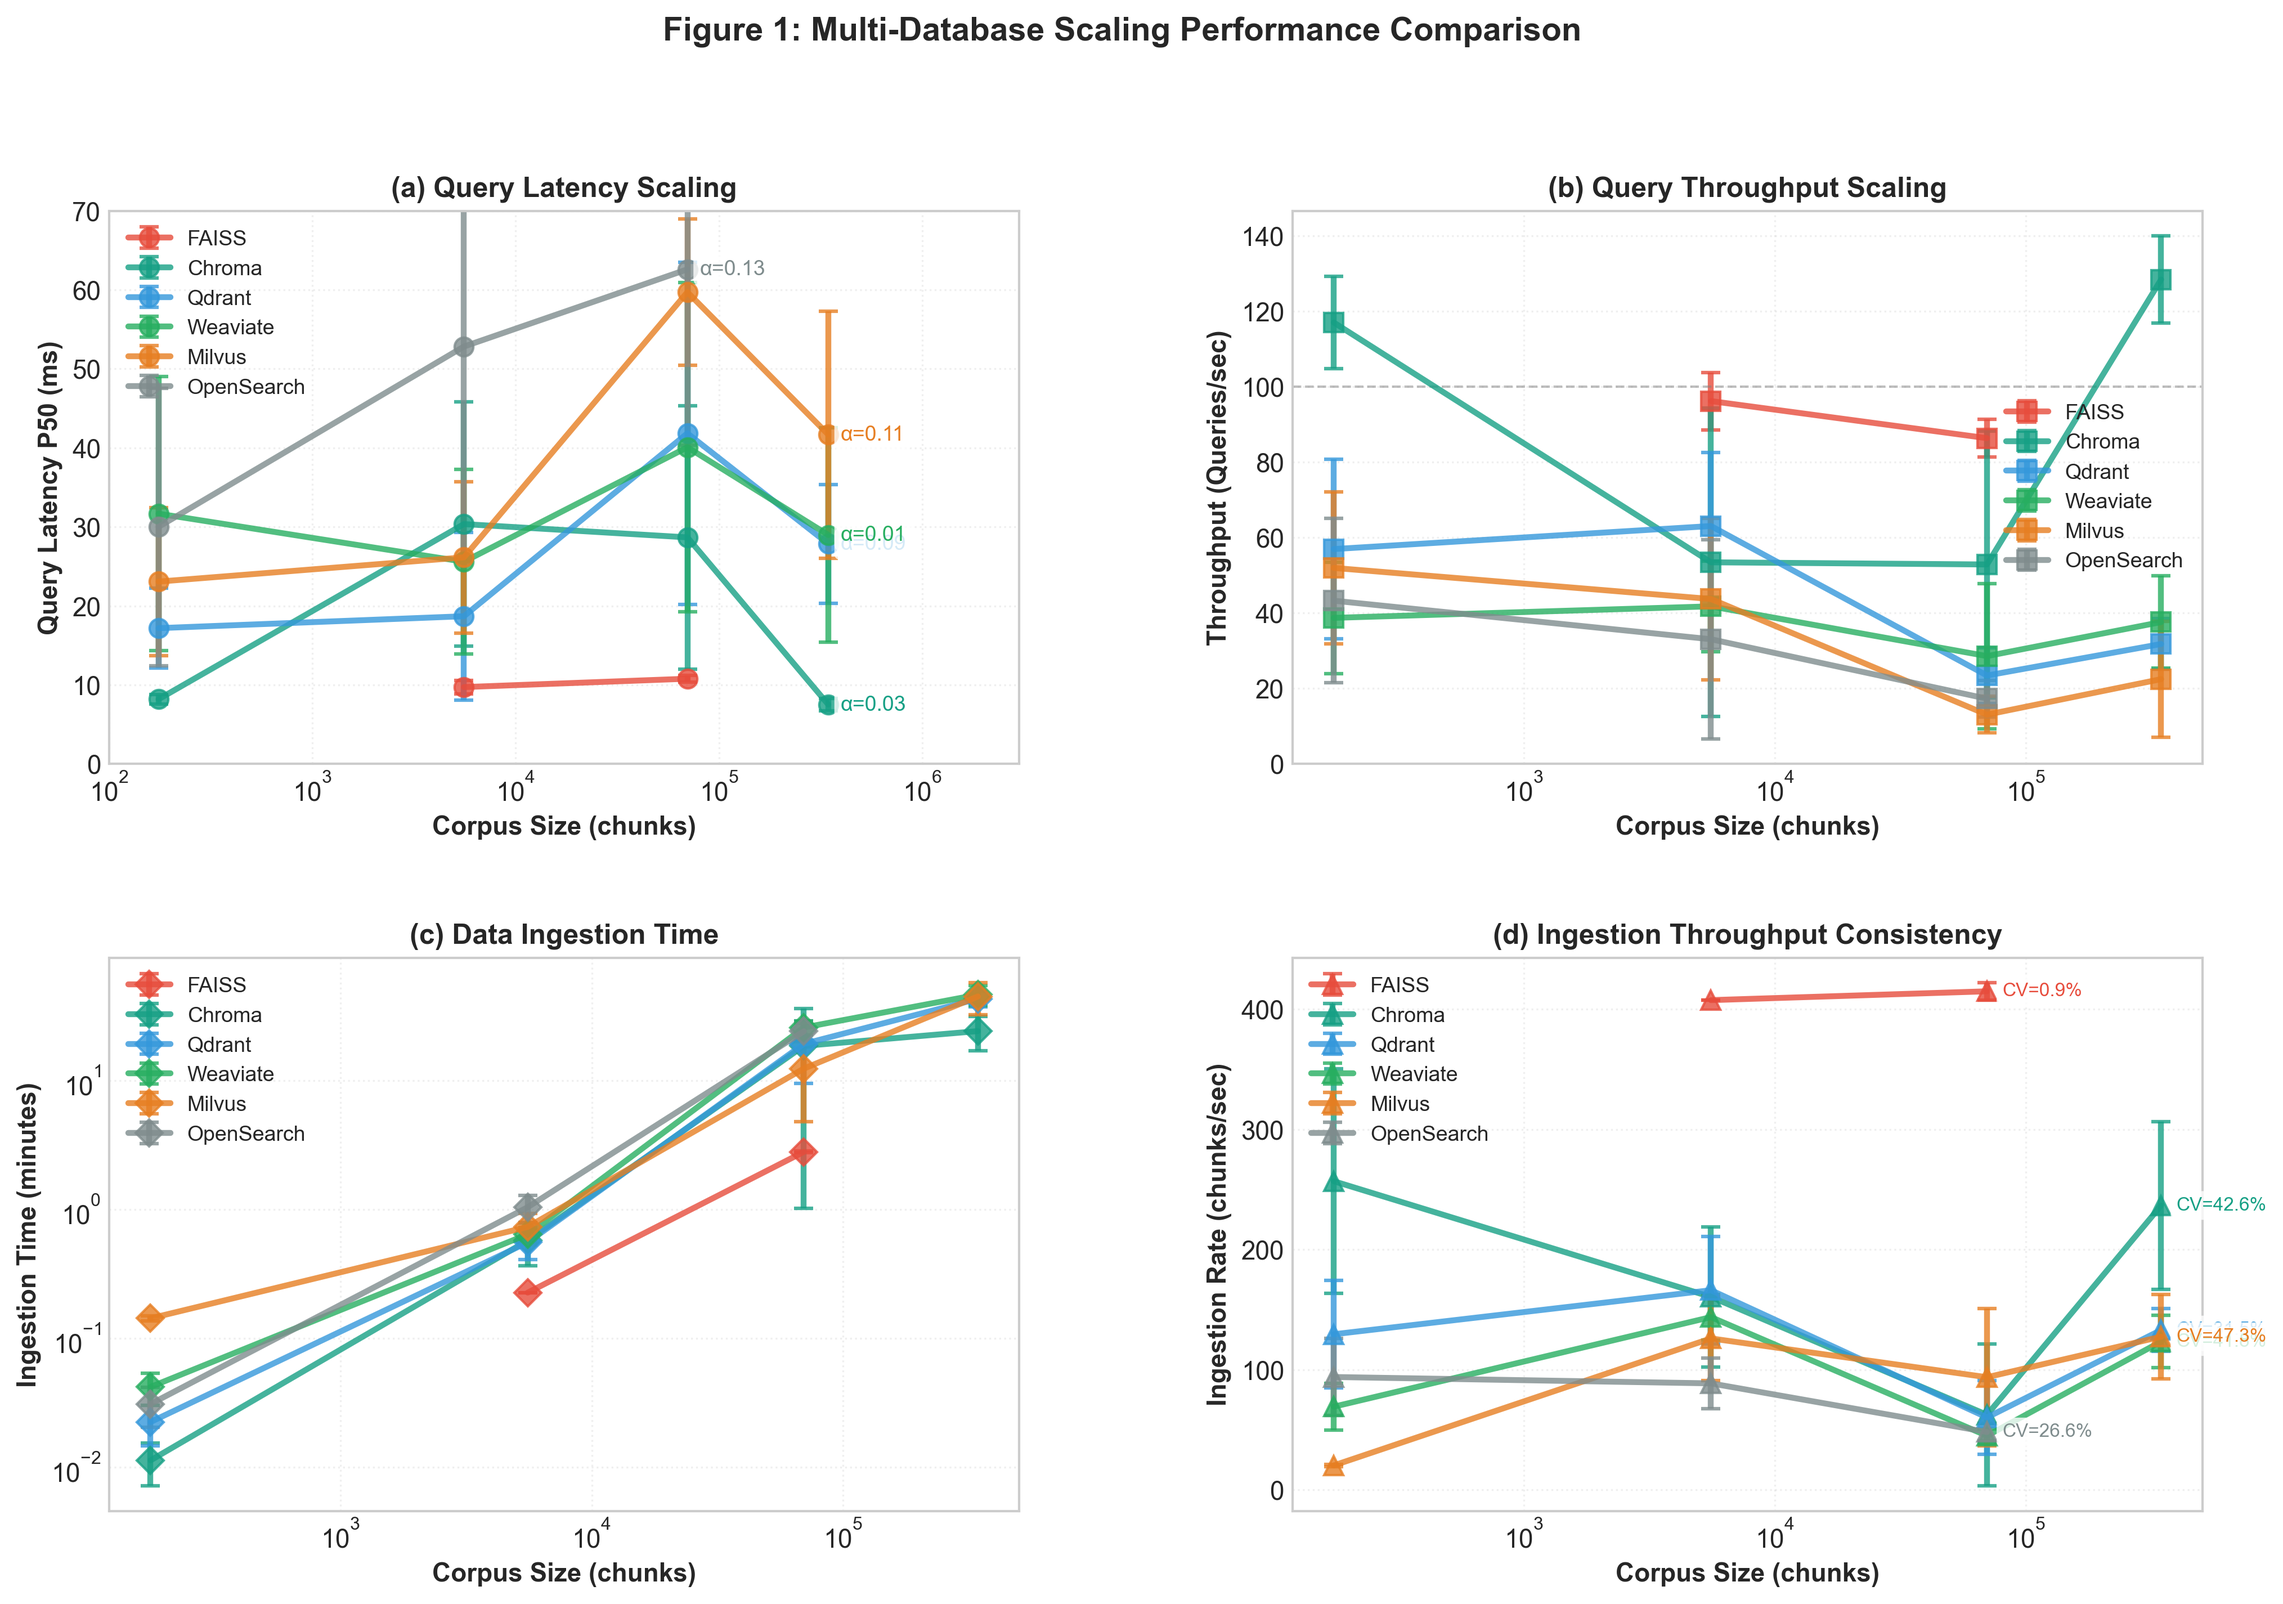
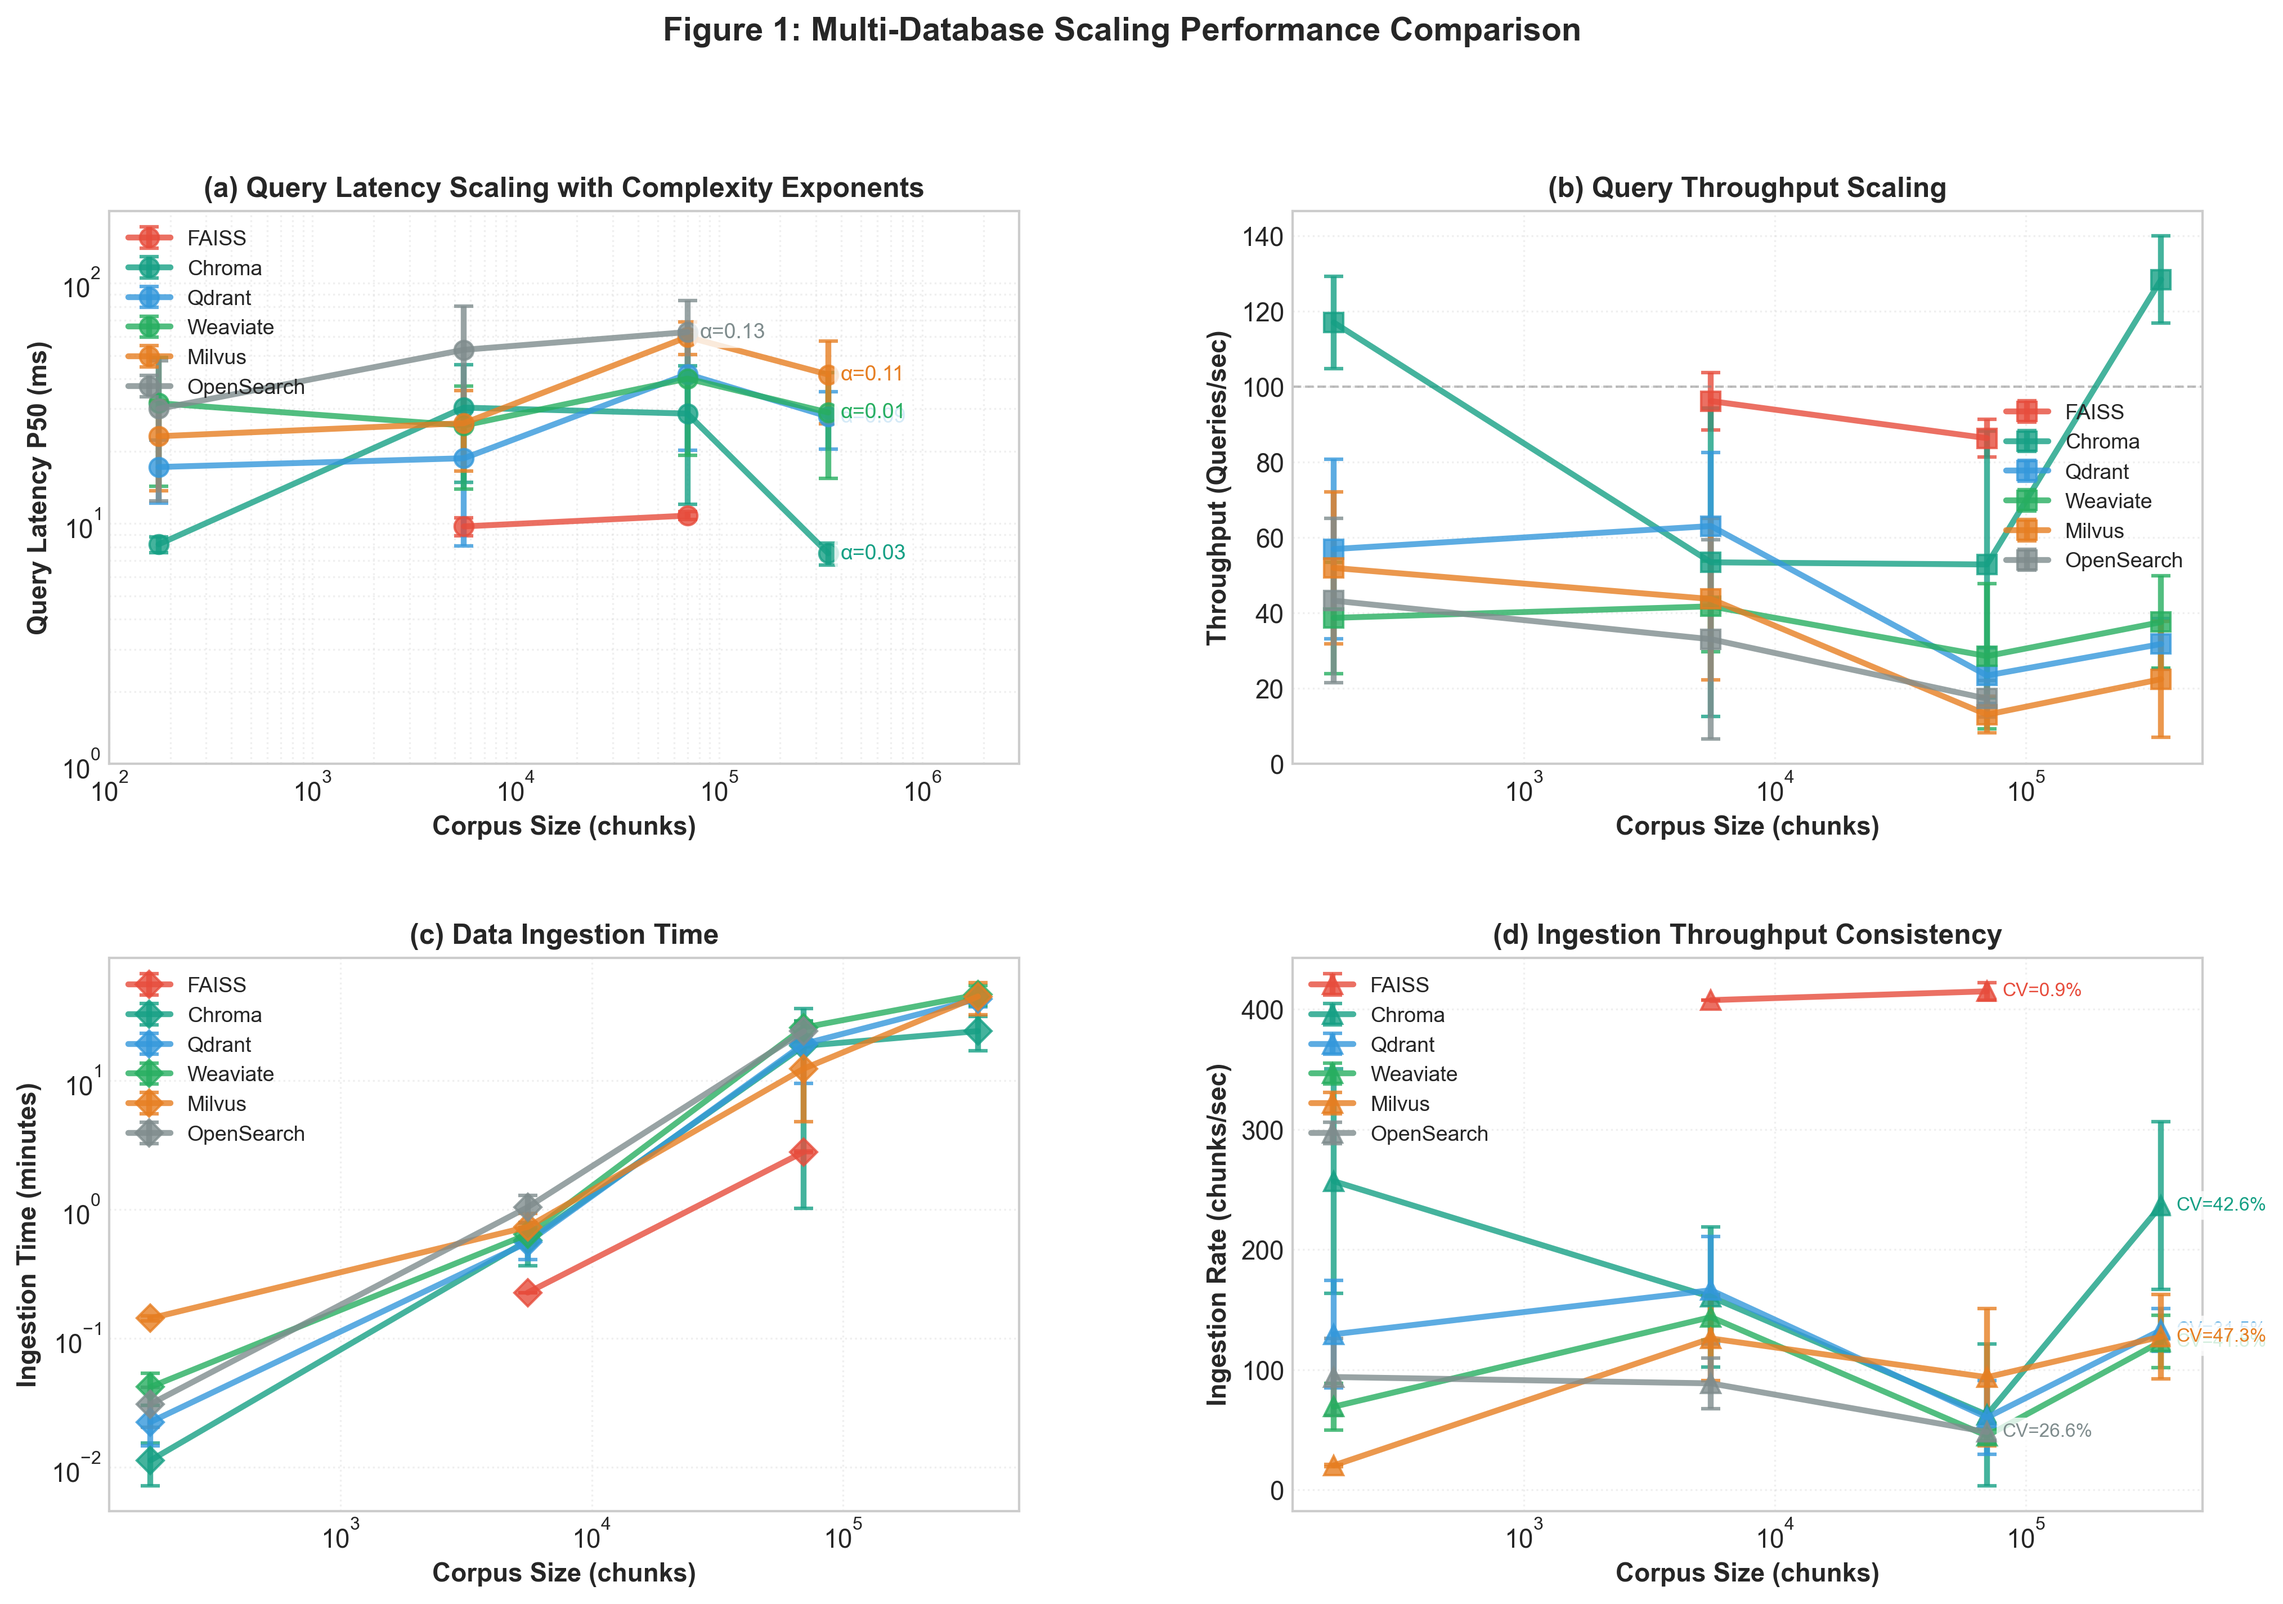
Revert panel (a) back to log-log scale
Restored original log-log scale for panel (a):
- Both axes logarithmic (as intended for complexity analysis)
- Power-law exponents (α values) back in place
- Y-axis: 1-200 ms (log scale with clear major/minor ticks)
- X-axis: 100-3M chunks (log scale)

The log-log scale is essential for showing scaling complexity
and power-law relationships (O(N^α)) across databases.

🤖 Generated with [Claude Code](https://claude.com/claude-code)

diff --git a/Scripts/plot_multi_database_scaling.py b/Scripts/plot_multi_database_scaling.py
@@ -423,23 +423,25 @@ def plot_combined_dashboard(all_data, output_dir):
 
     ax1.set_xlabel('Corpus Size (chunks)', fontweight='bold', fontsize=11)
     ax1.set_ylabel('Query Latency P50 (ms)', fontweight='bold', fontsize=11)
-    ax1.set_title('(a) Query Latency Scaling', fontweight='bold', fontsize=12)
+    ax1.set_title('(a) Query Latency Scaling with Complexity Exponents', fontweight='bold', fontsize=12)
     ax1.legend(loc='upper left', framealpha=0.95, fontsize=9)
-    ax1.grid(True, alpha=0.3, which='major', linestyle=':')
+    ax1.grid(True, alpha=0.3, which='both', linestyle=':')
     ax1.set_xscale('log')
-    # Linear y-axis for easier reading of absolute latency values
+    ax1.set_yscale('log')
 
-    # Add explicit axis ticks for better readability
-    from matplotlib.ticker import LogLocator, MultipleLocator
+    # Add explicit axis ticks for better readability on log-log scale
+    from matplotlib.ticker import LogLocator, NullFormatter
 
-    # X-axis (corpus size) ticks - show key corpus sizes on log scale
+    # Y-axis (latency) ticks - show 1, 10, 100 ms clearly
+    ax1.yaxis.set_major_locator(LogLocator(base=10, numticks=15))
+    ax1.yaxis.set_minor_locator(LogLocator(base=10, subs=np.arange(2, 10) * 0.1, numticks=100))
+    ax1.yaxis.set_minor_formatter(NullFormatter())
+
+    # X-axis (corpus size) ticks - show key corpus sizes
     ax1.xaxis.set_major_locator(LogLocator(base=10, numticks=12))
 
-    # Y-axis (latency) ticks - linear scale with 10ms increments
-    ax1.yaxis.set_major_locator(MultipleLocator(10))
-
     # Set reasonable axis limits
-    ax1.set_ylim(bottom=0, top=70)
+    ax1.set_ylim(bottom=1, top=200)
     ax1.set_xlim(left=100, right=3e6)
 
     # Panel 2: Throughput (QPS)
